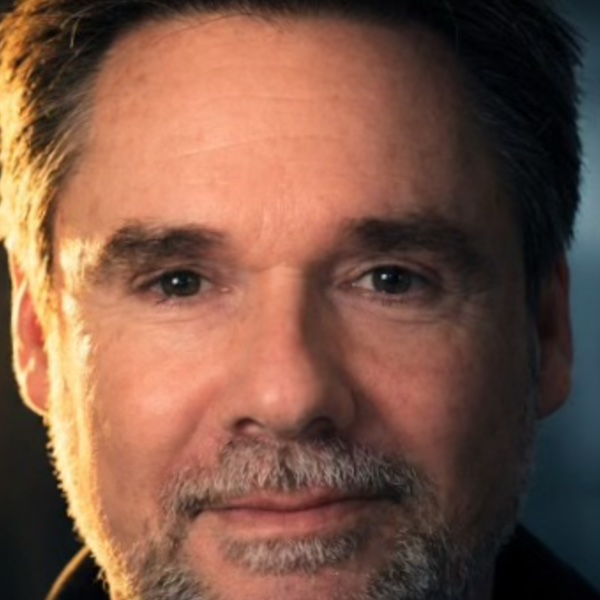
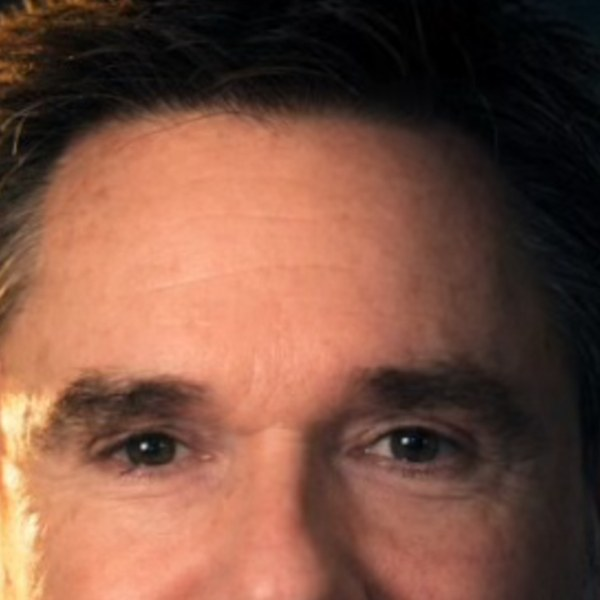
Resize Robin portrait 50% smaller, re-crop to show face

diff --git a/static/css/style.css b/static/css/style.css
@@ -202,7 +202,7 @@ a { color: #ebebeb; }
 }
 .robin-grid {
   display: grid;
-  grid-template-columns: 280px 1fr;
+  grid-template-columns: 160px 1fr;
   gap: 56px;
   align-items: start;
   max-width: 900px;
@@ -213,8 +213,8 @@ a { color: #ebebeb; }
   top: 60px;
 }
 .robin-photo img {
-  width: 280px;
-  height: 280px;
+  width: 140px;
+  height: 140px;
   border-radius: 50%;
   object-fit: cover;
   box-shadow: 0 20px 50px rgba(0,0,0,0.5), 0 0 40px rgba(201,168,76,0.1);
@@ -341,7 +341,7 @@ a { color: #ebebeb; }
   }
   .robin-photo img {
     margin: 0 auto;
-    width: 220px;
-    height: 220px;
+    width: 120px;
+    height: 120px;
   }
 }